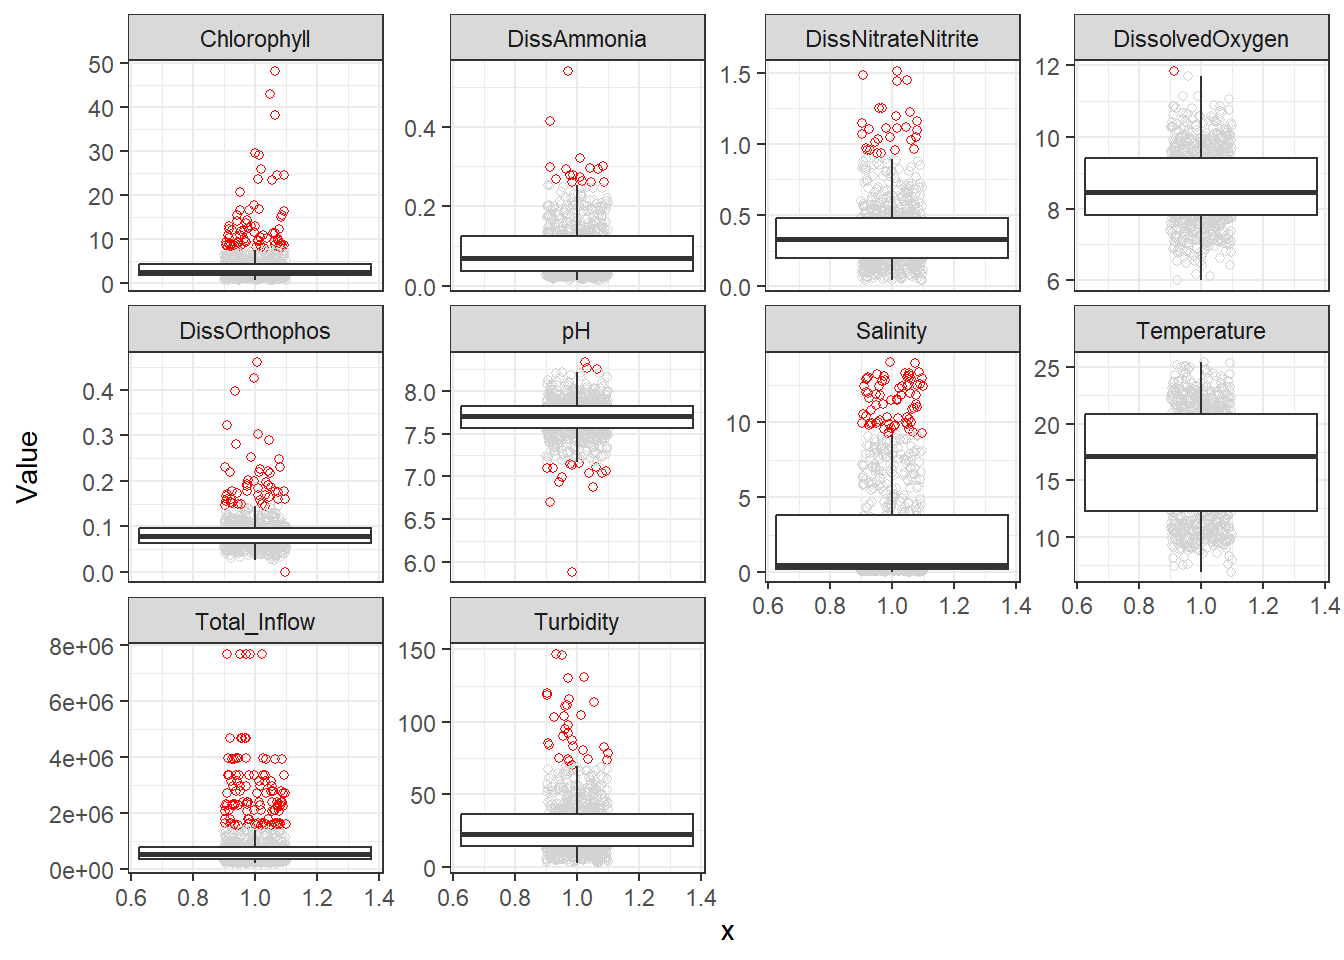
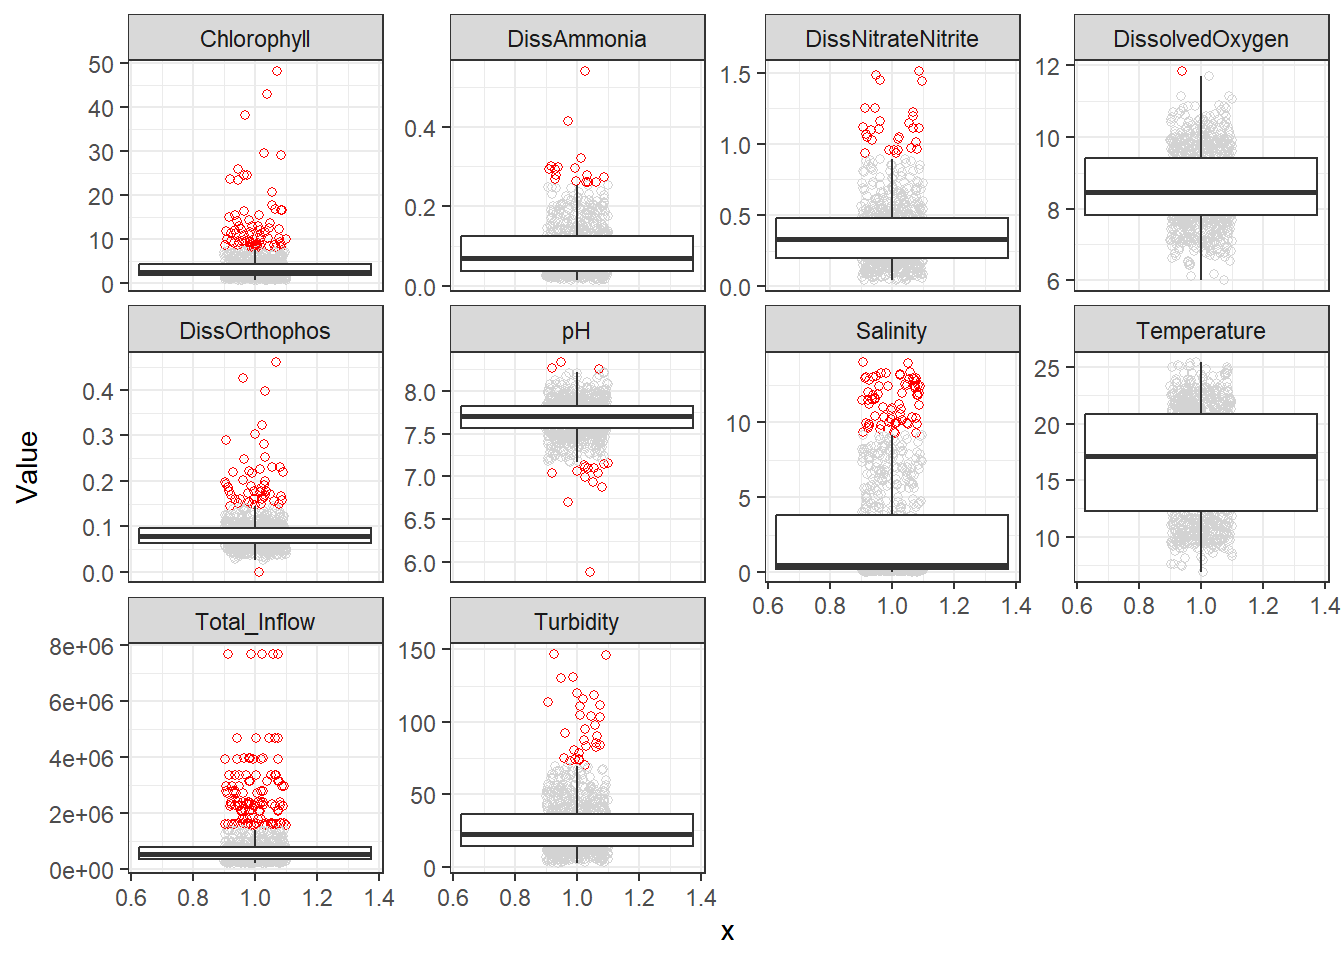
Fixing LaTeX equations in SEM template

diff --git a/docs/code/analysis/sem_template.html b/docs/code/analysis/sem_template.html
@@ -237,8 +237,12 @@ window.Quarto = {
 <h1>Analysis Example</h1>
 <p>This is a quick example of SEM analysis, covering data exploration + model creation + model interpretation.</p>
 <p>My models will be:</p>
-<p><span class="math display">\[\text{log_Chlorophyll} \sim \text{log_DissAmmonia} + \text{...} + \text{RE(Region)}\]</span></p>
-<p><span class="math display">\[\text{log_DissAmmonia} \sim \text{...} + \text{RE(Region)}\]</span></p>
+<p><span class="math display">\[
+\text{log(Chlorophyll)} \sim \text{log(DissAmmonia)} + \text{...} + \text{RE(Region)}
+\]</span></p>
+<p><span class="math display">\[
+\text{log(DissAmmonia)} \sim \text{...} + \text{RE(Region)}
+\]</span></p>
 <p>I used the monthly nutrient data for this.</p>
 <div class="cell">
 <div class="code-copy-outer-scaffold"><div class="sourceCode cell-code" id="cb1"><pre class="sourceCode r code-with-copy"><code class="sourceCode r"><span id="cb1-1"><a href="#cb1-1" aria-hidden="true" tabindex="-1"></a><span class="fu">library</span>(tidyverse)</span></code></pre></div><button title="Copy to Clipboard" class="code-copy-button"><i class="bi"></i></button></div>
